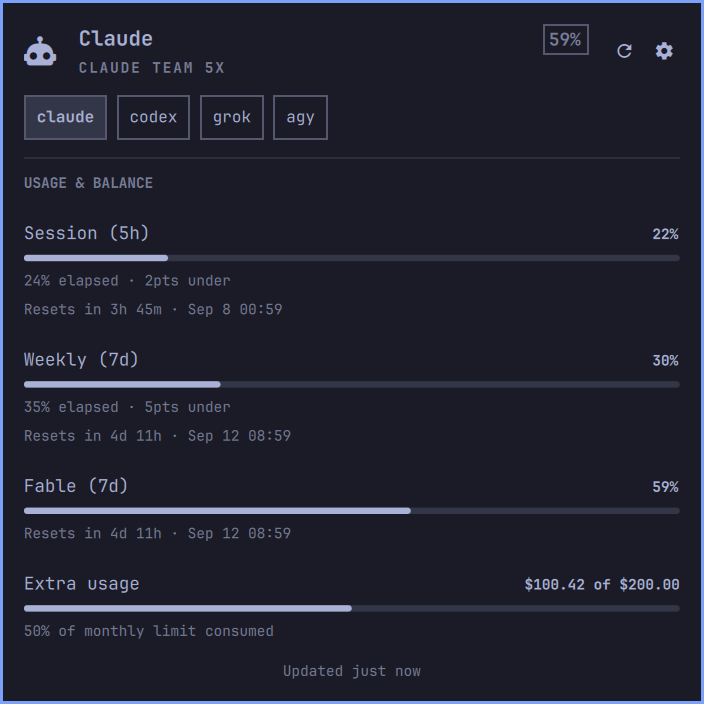
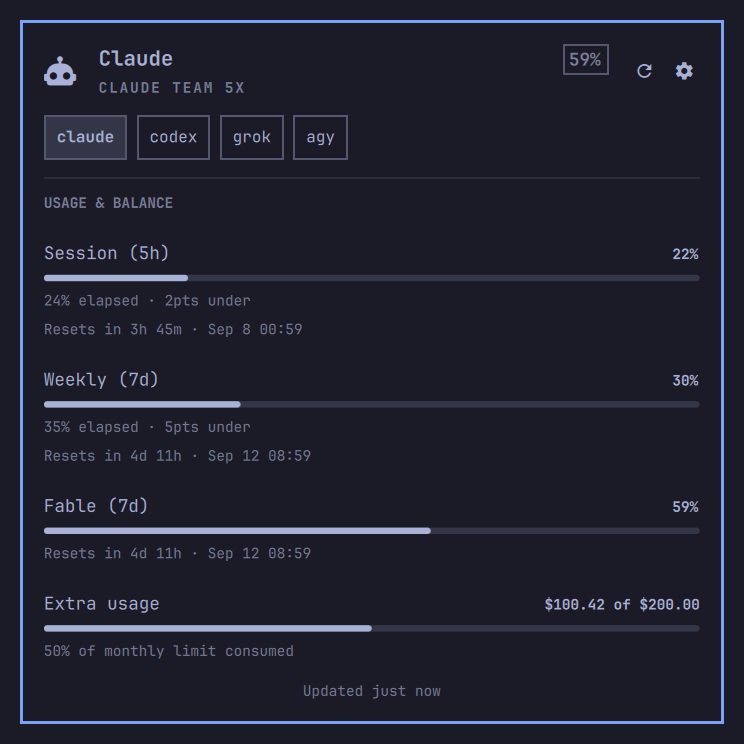
Constrain README screenshot size (#3)
GitHub was rendering the Quattro captures at full pixel width. Display
them centered at 400px and pad the crop so the border is not flush.

Changed region(s): [[0.0, 0.0, 1.0, 1.0]]

diff --git a/README.md b/README.md
@@ -13,9 +13,13 @@ KDE, macOS, or Nix frontends, and it does not document Waybar. The
 that path is leftover CLI behavior, not a supported frontend here. See
 [FORK.md](FORK.md) for how to pull upstream.
 
-![Native Omarchy Quattro panel](screenshots/omarchy-quattro-panel.png)
+<p align="center">
+  <img src="screenshots/omarchy-quattro-panel.png" width="400" alt="Native Omarchy Quattro panel showing Claude Team 5x with Claude, Codex, Grok, and AGY tabs">
+</p>
 
-![Native Omarchy Quattro settings](screenshots/omarchy-quattro-settings.png)
+<p align="center">
+  <img src="screenshots/omarchy-quattro-settings.png" width="400" alt="Native Omarchy Quattro settings for display, primary provider, and API keys">
+</p>
 
 ## Features
 
